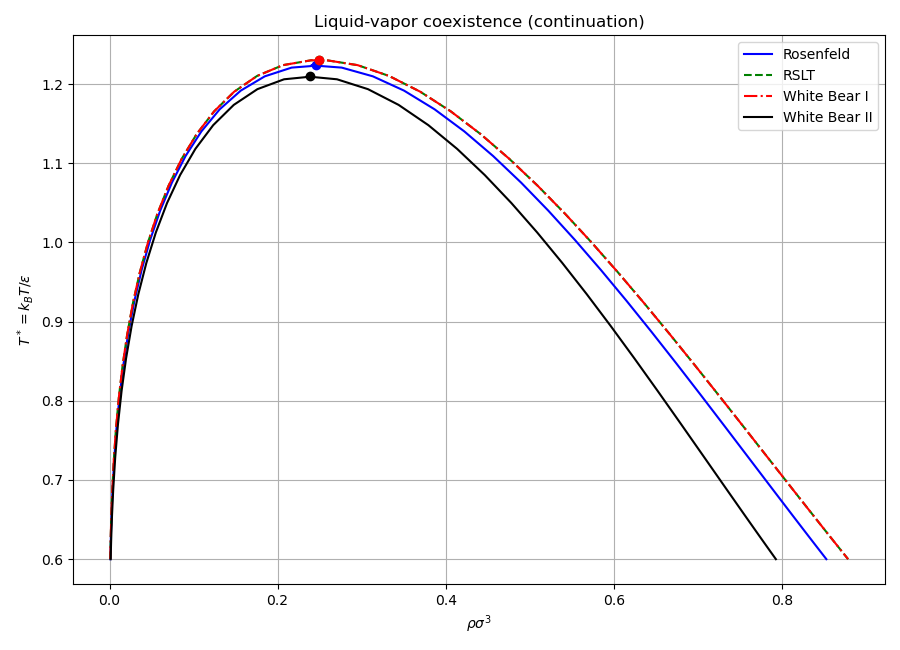
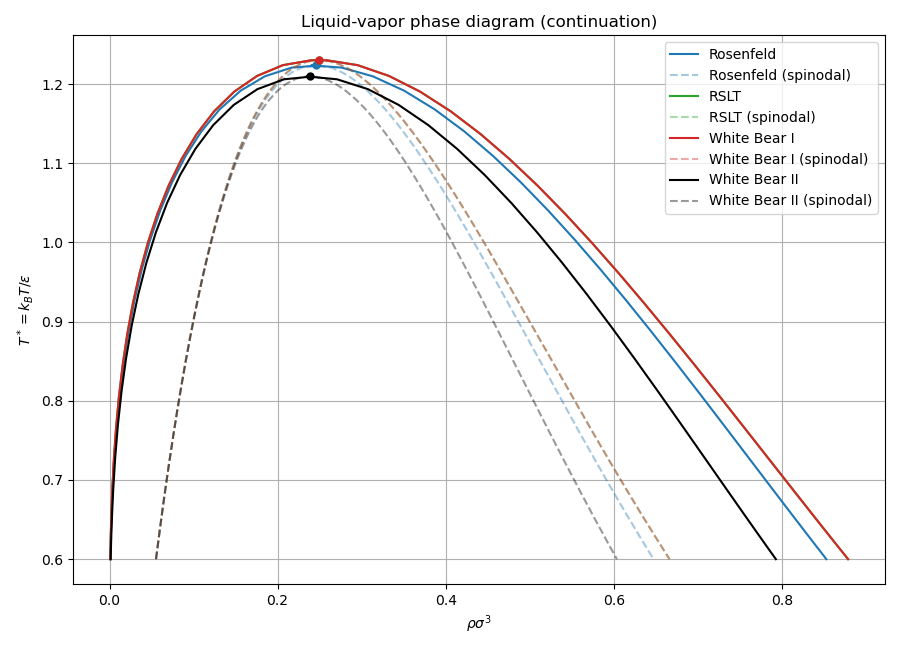
:construction: WIP

diff --git a/examples/solver/main.cpp b/examples/solver/main.cpp
@@ -95,28 +95,40 @@ int main() {
   std::cout << "\n=== Coexistence via pseudo-arclength continuation ===\n\n";
 
   std::vector<CoexData> all_coex;
+  std::vector<SpinodalData> all_spin;
   for (const auto& [name, fmt_model] : fmt_models) {
     CoexData cd{.name = name};
+    SpinodalData sd{.name = name};
 
     functionals::bulk::WeightFactory wf = [&](double kT) {
       return weight_factory(fmt_model, kT);
     };
 
-    auto curve = functionals::bulk::binodal(model.species, wf, pd_config);
-
-    if (curve) {
-      cd.T = curve->temperature;
-      cd.rho_v = curve->rho_vapor;
-      cd.rho_l = curve->rho_liquid;
-      cd.Tc = curve->critical_temperature;
-      cd.rho_c = curve->critical_density;
-      std::cout << name << ": " << cd.T.n_elem << " continuation points"
-                << ", T_c ~ " << cd.Tc << ", rho_c ~ " << cd.rho_c << "\n";
+    auto b = functionals::bulk::binodal(model.species, wf, pd_config);
+    if (b) {
+      cd.T = b->temperature;
+      cd.rho_v = b->rho_vapor;
+      cd.rho_l = b->rho_liquid;
+      cd.Tc = b->critical_temperature;
+      cd.rho_c = b->critical_density;
+      std::cout << name << ": binodal " << cd.T.n_elem << " pts"
+                << ", T_c ~ " << cd.Tc << ", rho_c ~ " << cd.rho_c;
     } else {
-      std::cout << name << ": failed to find coexistence\n";
+      std::cout << name << ": binodal failed";
+    }
+
+    auto s = functionals::bulk::spinodal(model.species, wf, pd_config);
+    if (s) {
+      sd.T = s->temperature;
+      sd.rho_lo = s->rho_low;
+      sd.rho_hi = s->rho_high;
+      std::cout << "  |  spinodal " << sd.T.n_elem << " pts\n";
+    } else {
+      std::cout << "  |  spinodal failed\n";
     }
 
     all_coex.push_back(std::move(cd));
+    all_spin.push_back(std::move(sd));
   }
 
   // Detailed White Bear II table.
@@ -134,37 +146,66 @@ int main() {
 
   // Spinodal curve for White Bear II.
 
+  const auto& wb2_spin = all_spin.back();
   std::cout << "\n=== Spinodal curve (White Bear II) ===\n\n";
-
-  functionals::bulk::WeightFactory wb2_wf = [&](double kT) {
-    return weight_factory(wb2, kT);
-  };
-
-  auto sp = functionals::bulk::spinodal(model.species, wb2_wf, pd_config);
-  if (sp) {
-    std::cout << "Spinodal: " << sp->temperature.n_elem << " points"
-              << ", T_c ~ " << sp->critical_temperature
-              << ", rho_c ~ " << sp->critical_density << "\n";
+  if (!wb2_spin.T.is_empty()) {
+    std::cout << "Spinodal: " << wb2_spin.T.n_elem << " points\n";
 
     std::cout << "\n--- White Bear II spinodal data ---\n";
     std::cout << std::setw(8) << "T*"
               << std::setw(14) << "rho_low"
               << std::setw(14) << "rho_high" << "\n";
-    for (arma::uword i = 0; i < sp->temperature.n_elem; ++i) {
-      std::cout << std::setw(8) << sp->temperature(i)
-                << std::setw(14) << sp->rho_low(i)
-                << std::setw(14) << sp->rho_high(i) << "\n";
+    for (arma::uword i = 0; i < wb2_spin.T.n_elem; ++i) {
+      std::cout << std::setw(8) << wb2_spin.T(i)
+                << std::setw(14) << wb2_spin.rho_lo(i)
+                << std::setw(14) << wb2_spin.rho_hi(i) << "\n";
     }
-  } else {
-    std::cout << "Spinodal: failed\n";
+  }
+
+  // Demonstrate spline interpolation on the phase diagram.
+
+  std::cout << "\n=== Interpolated phase boundaries (White Bear II) ===\n\n";
+
+  functionals::bulk::PhaseDiagram wb2_pd{
+      .binodal = {
+          .temperature = wb2_data.T,
+          .rho_vapor = wb2_data.rho_v,
+          .rho_liquid = wb2_data.rho_l,
+          .critical_temperature = wb2_data.Tc,
+          .critical_density = wb2_data.rho_c,
+      },
+      .spinodal = {
+          .temperature = wb2_spin.T,
+          .rho_low = wb2_spin.rho_lo,
+          .rho_high = wb2_spin.rho_hi,
+      },
+      .critical_temperature = wb2_data.Tc,
+      .critical_density = wb2_data.rho_c,
+  };
+
+  std::cout << std::setw(8) << "T*"
+            << std::setw(14) << "rho_v(bin)"
+            << std::setw(14) << "rho_l(bin)"
+            << std::setw(14) << "rho_lo(sp)"
+            << std::setw(14) << "rho_hi(sp)" << "\n";
+
+  for (double T = 0.65; T <= 1.15; T += 0.1) {
+    auto pb = functionals::bulk::interpolate(wb2_pd, T);
+    std::cout << std::setw(8) << T
+              << std::setw(14) << pb.binodal_vapor
+              << std::setw(14) << pb.binodal_liquid
+              << std::setw(14) << pb.spinodal_low
+              << std::setw(14) << pb.spinodal_high << "\n";
   }
 
 #ifdef DFT_HAS_MATPLOTLIB
   plot::isotherms(iso_rho, iso_p, isotherm_temps);
-  plot::coexistence(all_coex);
+  plot::coexistence(all_coex, all_spin);
   plot::binodal(wb2_data);
-  if (sp) {
-    plot::phase_diagram_plot(wb2_data, *sp);
+  if (!wb2_spin.T.is_empty()) {
+    dft::functionals::bulk::SpinodalCurve wb2_sp{
+        .temperature = wb2_spin.T, .rho_low = wb2_spin.rho_lo, .rho_high = wb2_spin.rho_hi};
+    plot::phase_diagram_plot(wb2_data, wb2_sp);
   }
 #endif
 }

diff --git a/examples/solver/plot.hpp b/examples/solver/plot.hpp
@@ -50,31 +50,51 @@ inline void isotherms(
   std::cout << "\nPlot saved: exports/isotherms.png\n";
 }
 
-inline void coexistence(const std::vector<CoexData>& all_coex) {
+inline void coexistence(
+    const std::vector<CoexData>& all_coex,
+    const std::vector<SpinodalData>& all_spin = {}
+) {
   namespace plt = matplotlibcpp;
   plt::figure_size(900, 650);
-  std::vector<std::string> colors = {"b", "g", "r", "k"};
-  std::vector<std::string> styles = {"b-", "g--", "r-.", "k-"};
+  // Solid colors for binodal, same with 66 hex (~40% opacity) suffix for spinodal.
+  std::vector<std::string> colors = {"#1f77b4", "#2ca02c", "#d62728", "#000000"};
+  std::vector<std::string> colors_alpha = {"#1f77b466", "#2ca02c66", "#d6272866", "#00000066"};
 
   for (std::size_t m = 0; m < all_coex.size(); ++m) {
     const auto& cd = all_coex[m];
     if (cd.T.is_empty()) continue;
 
-    // Combine vapor + reversed liquid to draw a single dome.
+    const auto& col = colors[m % colors.size()];
+
+    // Binodal dome (solid).
     arma::vec rho_dome = arma::join_cols(cd.rho_v, arma::reverse(cd.rho_l));
     arma::vec T_dome = arma::join_cols(cd.T, arma::reverse(cd.T));
     auto rho_vec = arma::conv_to<std::vector<double>>::from(rho_dome);
     auto T_vec = arma::conv_to<std::vector<double>>::from(T_dome);
 
-    plt::named_plot(cd.name, rho_vec, T_vec, styles[m % styles.size()]);
+    plt::plot(rho_vec, T_vec, {{"color", col}, {"linestyle", "-"}, {"label", cd.name}});
 
     if (cd.Tc > 0) {
-      plt::plot({cd.rho_c}, {cd.Tc}, colors[m % colors.size()] + "o");
+      plt::plot({cd.rho_c}, {cd.Tc}, {{"color", col}, {"marker", "o"}, {"markersize", "5"}});
+    }
+
+    // Spinodal dome (dashed, same color, transparent via RGBA hex).
+    if (m < all_spin.size() && !all_spin[m].T.is_empty()) {
+      const auto& sd = all_spin[m];
+      const auto& col_a = colors_alpha[m % colors_alpha.size()];
+      arma::vec rho_sp = arma::join_cols(sd.rho_lo, arma::reverse(sd.rho_hi));
+      arma::vec T_sp = arma::join_cols(sd.T, arma::reverse(sd.T));
+      auto rho_sp_vec = arma::conv_to<std::vector<double>>::from(rho_sp);
+      auto T_sp_vec = arma::conv_to<std::vector<double>>::from(T_sp);
+
+      plt::plot(rho_sp_vec, T_sp_vec,
+                {{"color", col_a}, {"linestyle", "--"},
+                 {"label", sd.name + " (spinodal)"}});
     }
   }
   plt::xlabel(R"($\rho \sigma^3$)");
   plt::ylabel(R"($T^* = k_BT / \epsilon$)");
-  plt::title("Liquid-vapor coexistence (continuation)");
+  plt::title("Liquid-vapor phase diagram (continuation)");
   plt::legend();
   plt::grid(true);
   plt::tight_layout();
@@ -120,7 +140,7 @@ inline void phase_diagram_plot(
     arma::vec T_dome = arma::join_cols(cd.T, arma::reverse(cd.T));
     auto rho_vec = arma::conv_to<std::vector<double>>::from(rho_dome);
     auto T_vec = arma::conv_to<std::vector<double>>::from(T_dome);
-    plt::named_plot("Binodal", rho_vec, T_vec, "k-");
+    plt::plot(rho_vec, T_vec, {{"color", "k"}, {"linestyle", "-"}, {"label", "Binodal"}});
   }
 
   // Spinodal dome.
@@ -129,11 +149,12 @@ inline void phase_diagram_plot(
     arma::vec T_sp = arma::join_cols(sp.temperature, arma::reverse(sp.temperature));
     auto rho_vec = arma::conv_to<std::vector<double>>::from(rho_sp);
     auto T_vec = arma::conv_to<std::vector<double>>::from(T_sp);
-    plt::named_plot("Spinodal", rho_vec, T_vec, "r--");
+    plt::plot(rho_vec, T_vec,
+              {{"color", "#d6272899"}, {"linestyle", "--"}, {"label", "Spinodal"}});
   }
 
   if (cd.Tc > 0) {
-    plt::plot({cd.rho_c}, {cd.Tc}, "ks");
+    plt::plot({cd.rho_c}, {cd.Tc}, {{"color", "k"}, {"marker", "s"}, {"markersize", "6"}});
   }
 
   plt::xlabel(R"($\rho \sigma^3$)");

diff --git a/tests/functionals/bulk/phase_diagram.cpp b/tests/functionals/bulk/phase_diagram.cpp
@@ -7,6 +7,7 @@
 #include "dft/physics/potentials.hpp"
 
 #include <armadillo>
+#include <cmath>
 #include <catch2/catch_approx.hpp>
 #include <catch2/catch_test_macros.hpp>
 
@@ -349,6 +350,8 @@ TEST_CASE("phase_diagram returns both binodal and spinodal", "[phase_diagram]") 
   REQUIRE(result.has_value());
   CHECK_FALSE(result->binodal.temperature.is_empty());
   CHECK_FALSE(result->spinodal.temperature.is_empty());
+  CHECK(result->critical_temperature > 0.7);
+  CHECK(result->critical_density > 0.0);
 }
 
 TEST_CASE("phase_diagram returns nullopt for purely repulsive system", "[phase_diagram]") {
@@ -358,4 +361,52 @@ TEST_CASE("phase_diagram returns nullopt for purely repulsive system", "[phase_d
 
   auto result = phase_diagram(SPECIES, hs_factory);
   CHECK_FALSE(result.has_value());
+}
+
+// interpolate
+
+TEST_CASE("interpolate returns phase boundaries at a known temperature", "[phase_diagram]") {
+  PhaseDiagramConfig pd_config{
+      .start_temperature = 0.6,
+      .search = CONFIG,
+  };
+
+  auto pd = phase_diagram(SPECIES, WEIGHT_FACTORY, pd_config);
+  REQUIRE(pd.has_value());
+
+  auto pb = interpolate(*pd, 0.8);
+  CHECK(pb.temperature == 0.8);
+  CHECK(std::isfinite(pb.binodal_vapor));
+  CHECK(std::isfinite(pb.binodal_liquid));
+  CHECK(std::isfinite(pb.spinodal_low));
+  CHECK(std::isfinite(pb.spinodal_high));
+  CHECK(pb.binodal_vapor < pb.spinodal_low);
+  CHECK(pb.spinodal_high < pb.binodal_liquid);
+}
+
+TEST_CASE("interpolate returns NaN above the critical temperature", "[phase_diagram]") {
+  PhaseDiagramConfig pd_config{
+      .start_temperature = 0.6,
+      .search = CONFIG,
+  };
+
+  auto pd = phase_diagram(SPECIES, WEIGHT_FACTORY, pd_config);
+  REQUIRE(pd.has_value());
+
+  auto pb = interpolate(*pd, pd->critical_temperature + 0.5);
+  CHECK(std::isnan(pb.binodal_vapor));
+  CHECK(std::isnan(pb.binodal_liquid));
+}
+
+TEST_CASE("interpolate returns NaN below the traced range", "[phase_diagram]") {
+  PhaseDiagramConfig pd_config{
+      .start_temperature = 0.6,
+      .search = CONFIG,
+  };
+
+  auto pd = phase_diagram(SPECIES, WEIGHT_FACTORY, pd_config);
+  REQUIRE(pd.has_value());
+
+  auto pb = interpolate(*pd, 0.1);
+  CHECK(std::isnan(pb.binodal_vapor));
 }
